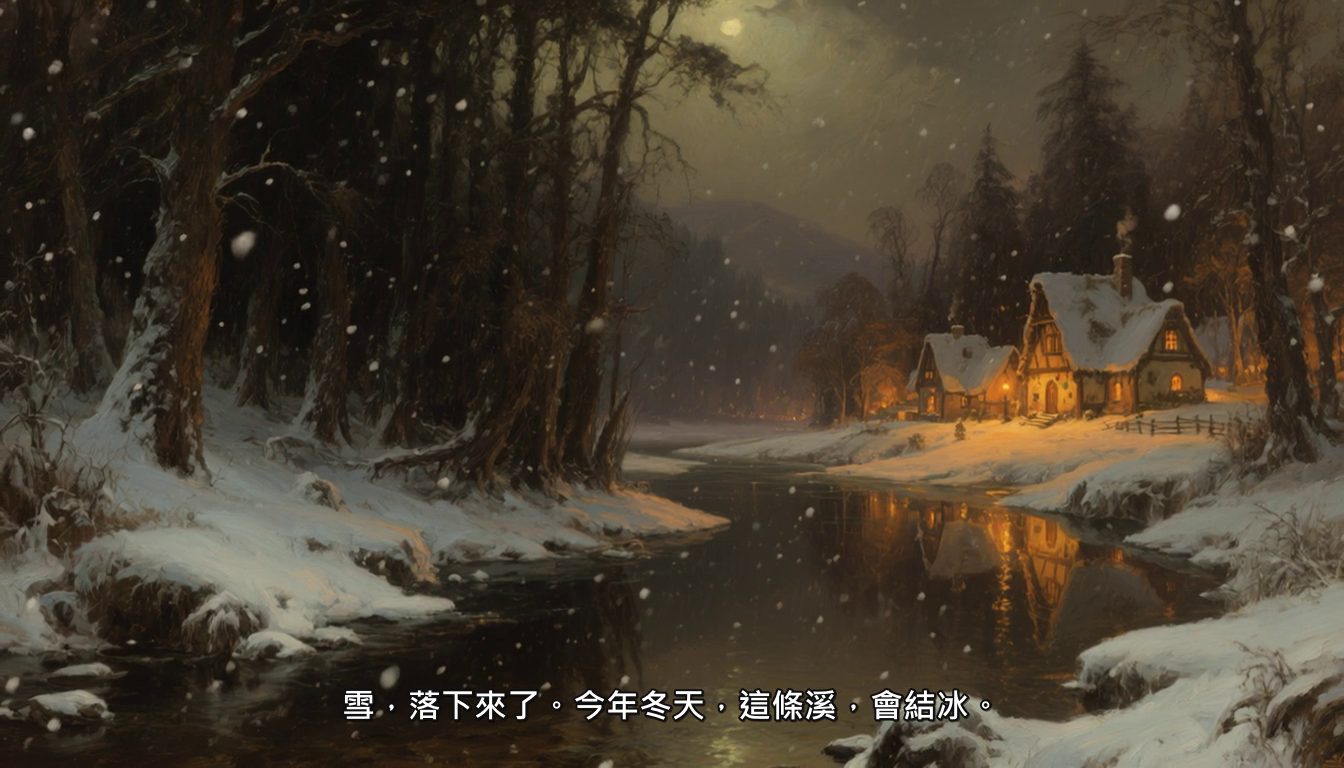
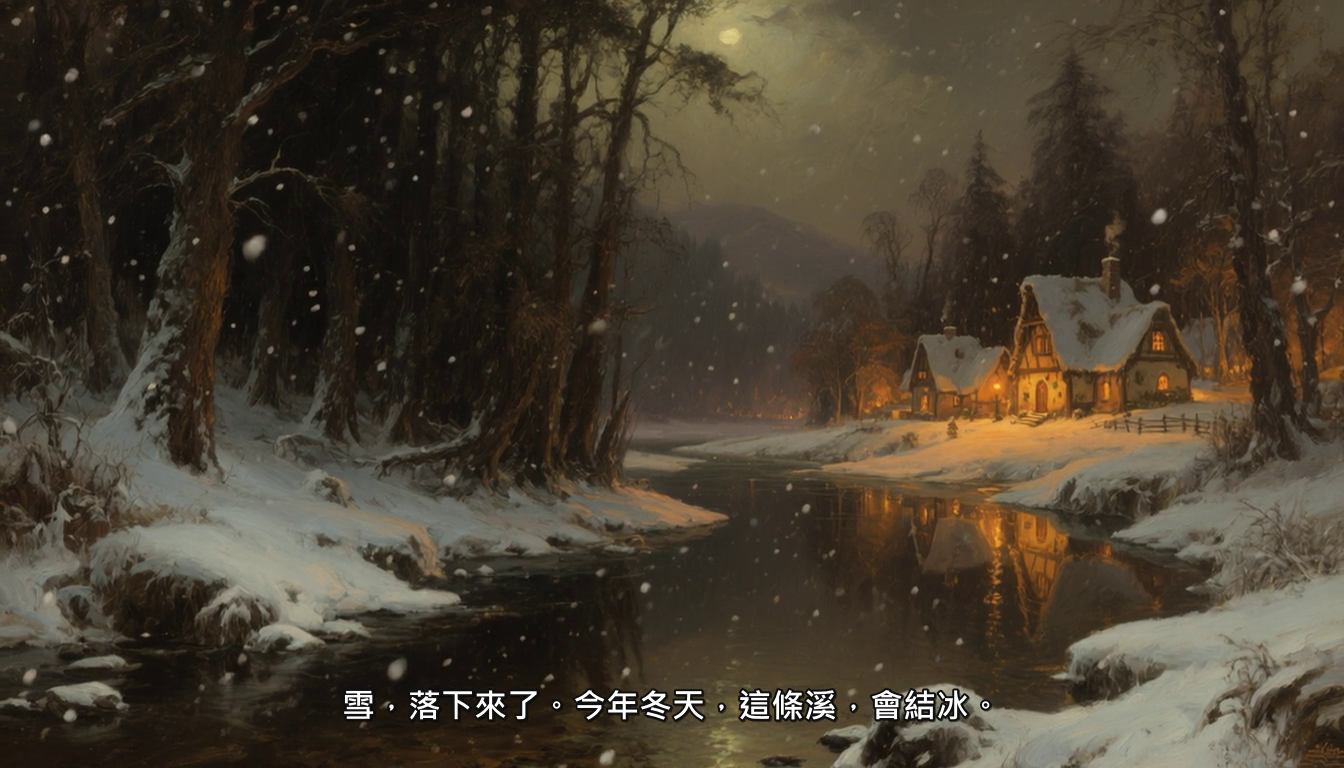
TT 雪落之前 v2：修鏡頭抖動(4倍超取樣zoompan+lanczos+淡入出)、旁白換edge-tts雲哲男聲聲底+speed_factor 1.1(38.9秒)

diff --git a/territory-trials/storybook/雪落之前/make_ref_edge.py b/territory-trials/storybook/雪落之前/make_ref_edge.py
@@ -1,0 +1,16 @@
+# make_ref_edge.py — 用 edge-tts 台灣男聲(雲哲)生成 SoVITS 參考聲底（labs 執行、需網路）
+# 用法：python make_ref_edge.py   （讀同資料夾 ref.txt、產 ref.wav 覆蓋舊聲底）
+import asyncio, subprocess
+from pathlib import Path
+import edge_tts
+
+BASE = Path(__file__).parent
+text = (BASE / "ref.txt").read_text(encoding="utf-8").strip()
+
+async def main():
+    await edge_tts.Communicate(text, "zh-TW-YunJheNeural", rate="+5%").save(str(BASE / "ref_edge.mp3"))
+
+asyncio.run(main())
+subprocess.run(["ffmpeg", "-y", "-v", "error", "-i", str(BASE / "ref_edge.mp3"),
+                "-ar", "32000", "-ac", "1", str(BASE / "ref.wav")], check=True)
+print("REF_EDGE_DONE", flush=True)

diff --git a/territory-trials/storybook/雪落之前/assemble.py b/territory-trials/storybook/雪落之前/assemble.py
@@ -33,10 +33,12 @@ for i, f in enumerate(spec["frames"]):
     zin = i % 2 == 0  # 奇偶幀交替推近/拉遠
     z = (f"1+0.08*on/{frames-1}") if zin else (f"1.08-0.08*on/{frames-1}")
     seg = f"seg_{f['id']:02d}.mp4"
+    fade = f"fade=t=in:st=0:d=0.5,fade=t=out:st={dur-0.5:.3f}:d=0.5"
+    # 4 倍超取樣再 zoompan：把整數捨入誤差壓到次像素、消除鏡頭抖動
     run(["ffmpeg", "-y", "-loop", "1", "-framerate", str(FPS), "-t", f"{dur:.3f}", "-i", img,
          "-i", wav, "-filter_complex",
-         f"[0:v]scale={W*2}:{H*2},zoompan=z='{z}':d={frames}"
-         f":x='iw/2-(iw/zoom/2)':y='ih/2-(ih/zoom/2)':s={W}x{H}:fps={FPS},format=yuv420p[v];"
+         f"[0:v]scale={W*4}:{H*4}:flags=lanczos,zoompan=z='{z}':d={frames}"
+         f":x='iw/2-(iw/zoom/2)':y='ih/2-(ih/zoom/2)':s={W}x{H}:fps={FPS},{fade},format=yuv420p[v];"
          f"[1:a]apad[a]",
          "-map", "[v]", "-map", "[a]", "-t", f"{dur:.3f}",
          "-c:v", "libx264", "-preset", "medium", "-crf", "18",

diff --git a/territory-trials/storybook/雪落之前/tts_lines.py b/territory-trials/storybook/雪落之前/tts_lines.py
@@ -16,6 +16,7 @@ def tts(text: str, out: Path):
         "prompt_text": REF_TEXT,
         "prompt_lang": "zh",
         "text_split_method": "cut5",
+        "speed_factor": 1.1,
         "batch_size": 1,
         "media_type": "wav",
         "streaming_mode": "false",